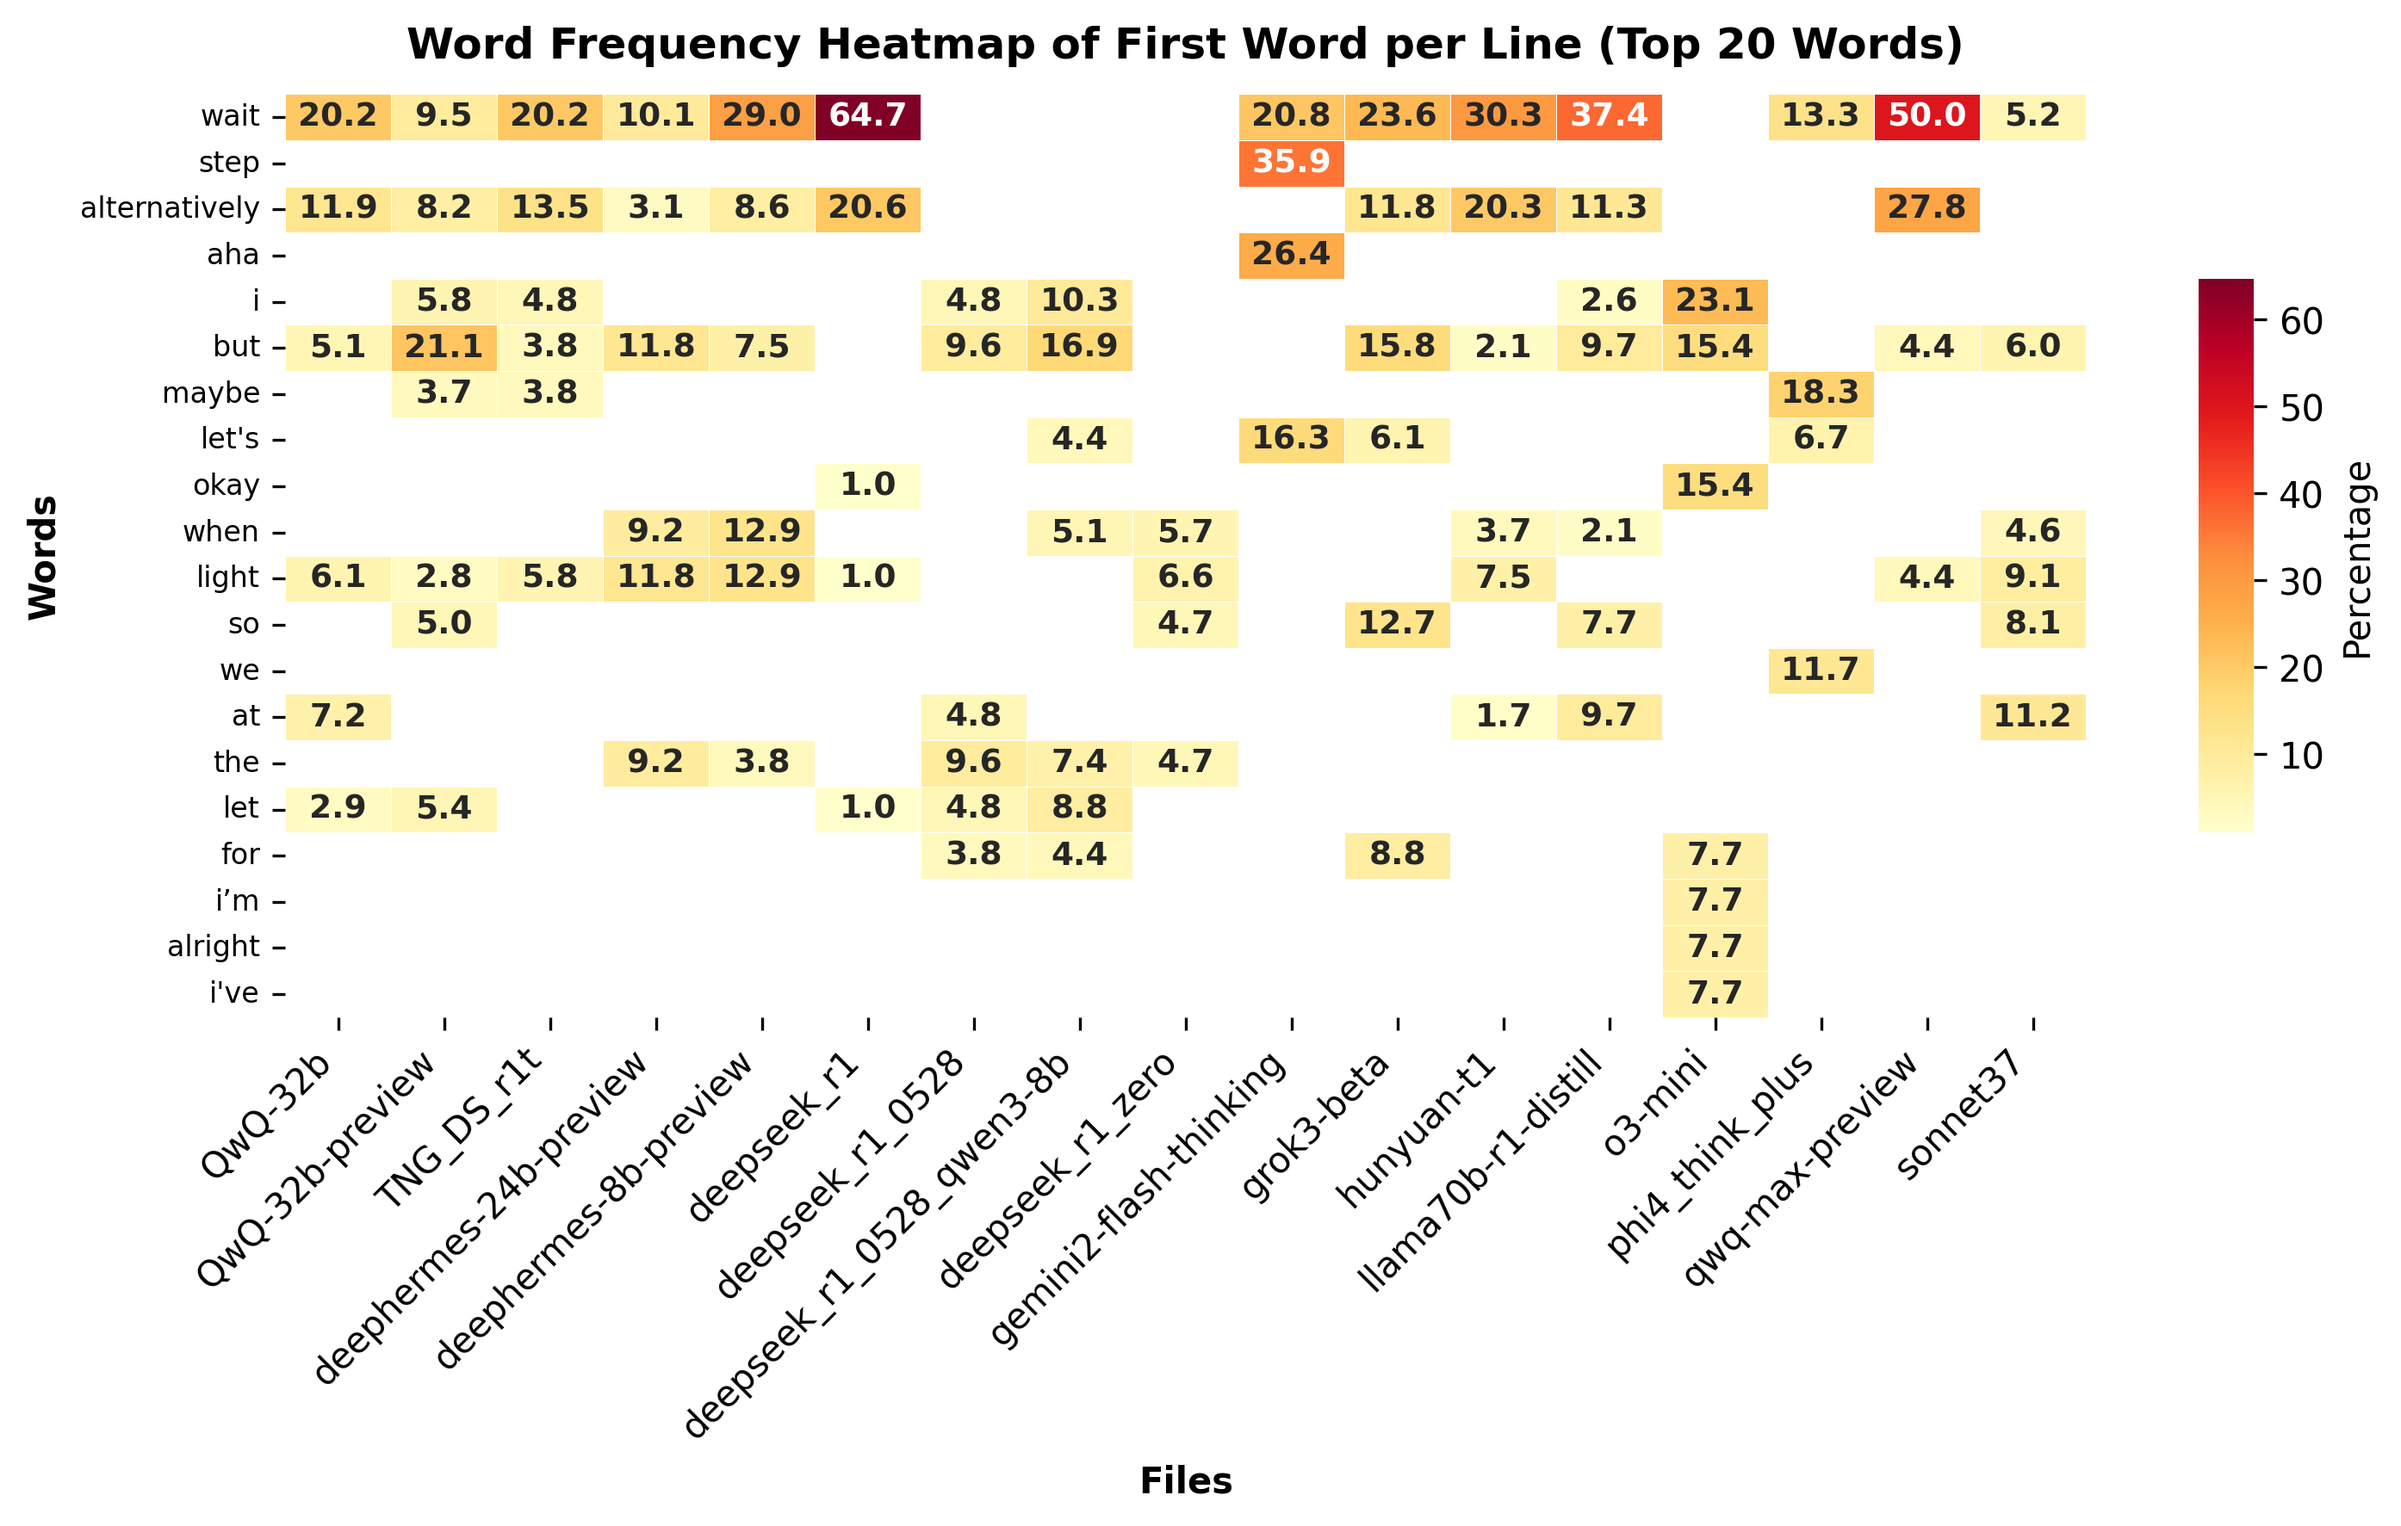
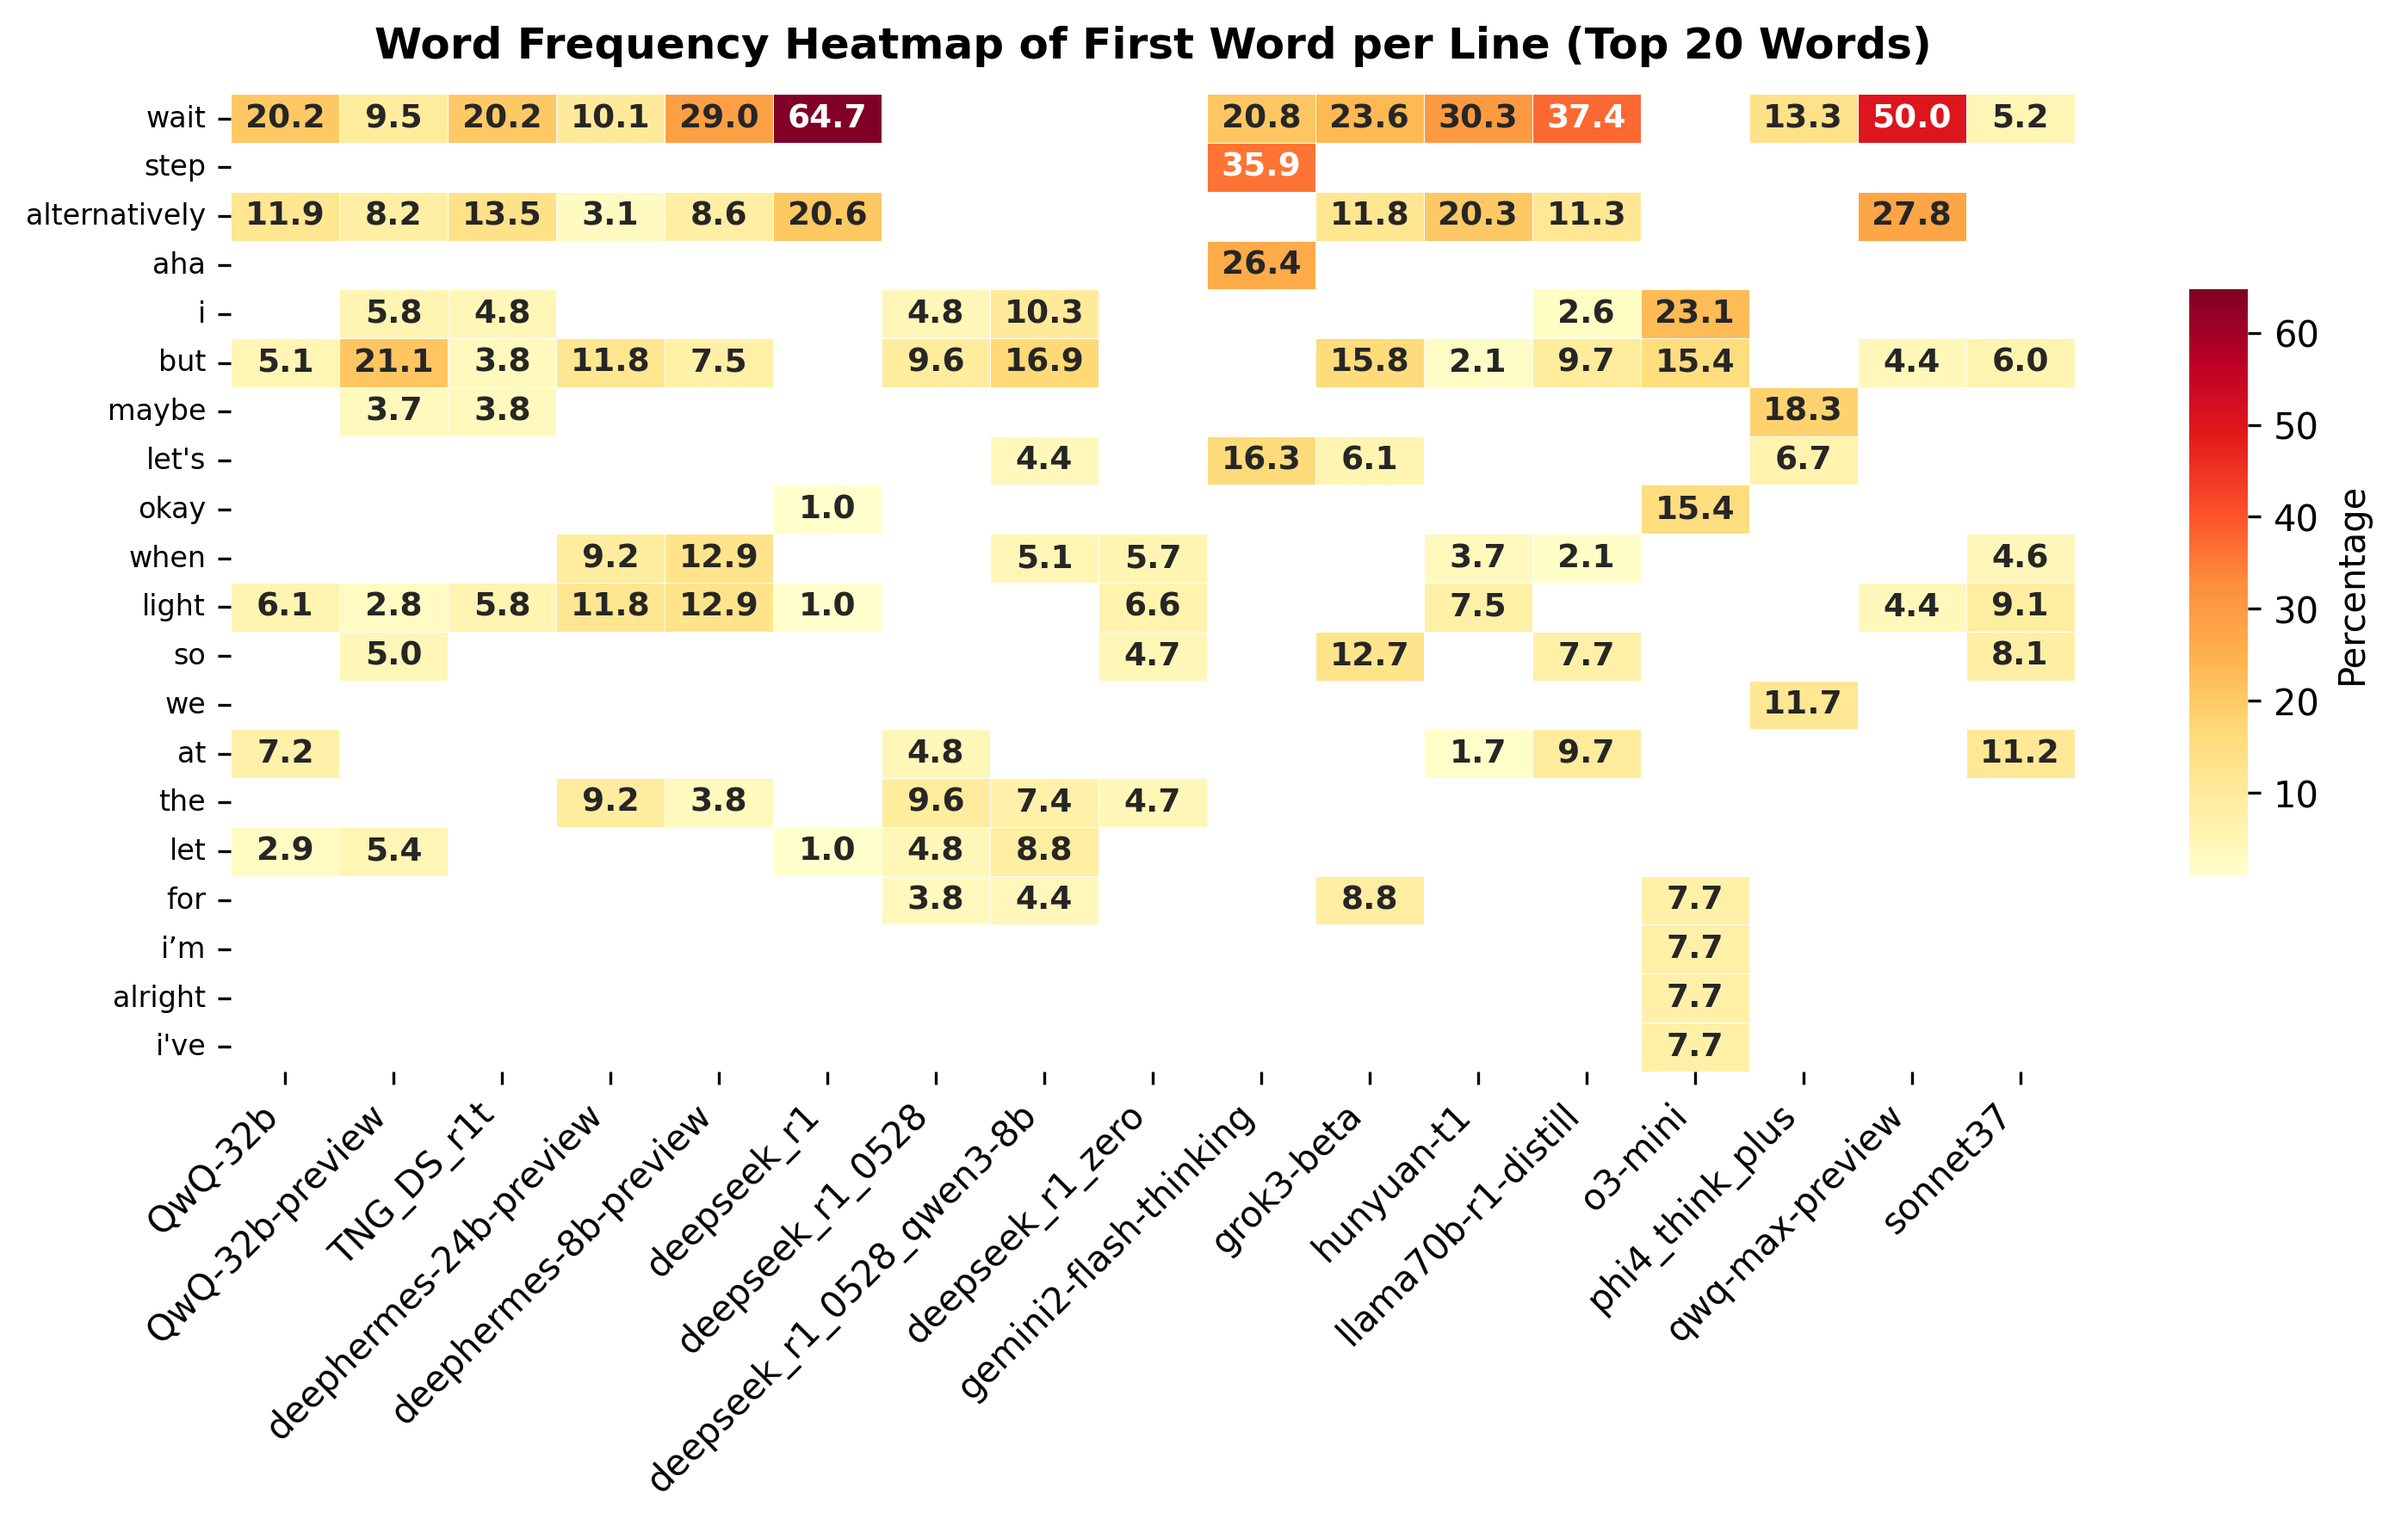
Refactor histogram printing and update correlation heatmap generation

diff --git a/thinkingtraces/extract.py b/thinkingtraces/extract.py
@@ -6,6 +6,8 @@ from pathlib import Path
 import pandas as pd
 import seaborn as sns
 import matplotlib.pyplot as plt
+from scipy.cluster.hierarchy import linkage, dendrogram
+from scipy.spatial.distance import squareform
 
 def clean_word(word):
     """Remove punctuation and convert to lowercase."""
@@ -38,13 +40,13 @@ def print_histograms(file_histograms):
                                         key=lambda x: (-x[1], x[0]))[:10])
         top_words.update(file_tops[filename].keys())
     
-    # Print individual histograms
-    for filename, hist in sorted(file_tops.items()):
-        print(f"\nWord Frequency: {Path(filename).stem}")
-        print("-" * 40)
-        # Sort by percentage descending
-        for word, pct in sorted(hist.items(), key=lambda x: (-x[1], x[0])):
-            print(f"{word:15} {pct:6.2f}%")
+    # # Print individual histograms
+    # for filename, hist in sorted(file_tops.items()):
+    #     print(f"\nWord Frequency: {Path(filename).stem}")
+    #     print("-" * 40)
+    #     # Sort by percentage descending
+    #     for word, pct in sorted(hist.items(), key=lambda x: (-x[1], x[0])):
+    #         print(f"{word:15} {pct:6.2f}%")
     
     # Create comparison matrix with words as rows and files as columns
     matrix_data = {}
@@ -67,9 +69,9 @@ def print_histograms(file_histograms):
     # sort columns for frequency heatmap
     df_freq = df_freq[sorted(df_freq.columns)]
     
-    print("\nComparison Matrix (percentages):")
-    print("-" * 40)
-    print(df_freq.round(2).to_string(na_rep=''))
+    # print("\nComparison Matrix (percentages):")
+    # print("-" * 40)
+    # print(df_freq.round(2).to_string(na_rep=''))
     
     # --- Frequency Heatmap ---
     plt.figure(figsize=(10, 6))
@@ -91,8 +93,8 @@ def print_histograms(file_histograms):
     )
     
     plt.title('Word Frequency Heatmap of First Word per Line (Top 20 Words)', fontsize=12, fontweight='bold', pad=10)
-    plt.ylabel('Words', fontsize=10, fontweight='bold', labelpad=5)
-    plt.xlabel('Files', fontsize=10, fontweight='bold', labelpad=5)
+    # plt.ylabel('Words', fontsize=10, fontweight='bold', labelpad=5)
+    # plt.xlabel('Files', fontsize=10, fontweight='bold', labelpad=5)
     plt.xticks(rotation=45, ha='right', fontsize=10)
     plt.yticks(fontsize=8)
     plt.tight_layout(pad=1.0)
@@ -105,11 +107,27 @@ def print_histograms(file_histograms):
     # Calculate correlation matrix on the df_filled (NaNs as 0)
     correlation_matrix = df_filled.corr()
 
-    plt.figure(figsize=(8, 6)) # Adjust size for correlation matrix
+    # Reorder correlation matrix using hierarchical clustering
+    # Convert correlation to distance matrix
+    distance_matrix = 1 - correlation_matrix.abs()
     
-    # Create the correlation heatmap
+    # Perform hierarchical clustering
+    condensed_distances = squareform(distance_matrix, checks=False)
+    linkage_matrix = linkage(condensed_distances, method='average')
+    
+    # Get the order from clustering
+    dendro = dendrogram(linkage_matrix, no_plot=True)
+    cluster_order = dendro['leaves']
+    
+    # Reorder the correlation matrix
+    ordered_labels = [correlation_matrix.columns[i] for i in cluster_order]
+    correlation_matrix_ordered = correlation_matrix.loc[ordered_labels, ordered_labels]
+
+    plt.figure(figsize=(12, 12)) # Adjust size for correlation matrix
+    
+    # Create the correlation heatmap with clustered order
     ax_corr = sns.heatmap(
-        correlation_matrix,
+        correlation_matrix_ordered,
         annot=True,
         fmt='.2f', # Show correlation values with 2 decimal places
         cmap='coolwarm', # Use a diverging colormap for correlation
@@ -120,8 +138,8 @@ def print_histograms(file_histograms):
     )
 
     plt.title('Cross-Correlation of First Word Statistics', fontsize=12, fontweight='bold', pad=10)
-    plt.ylabel('Files', fontsize=10, fontweight='bold', labelpad=5)
-    plt.xlabel('Files', fontsize=10, fontweight='bold', labelpad=5)
+    # plt.ylabel('Files', fontsize=10, fontweight='bold', labelpad=5)
+    # plt.xlabel('Files', fontsize=10, fontweight='bold', labelpad=5)
     plt.xticks(rotation=45, ha='right', fontsize=9)
     plt.yticks(rotation=0, fontsize=9) # Keep y-axis labels horizontal
     plt.tight_layout(pad=1.0)
